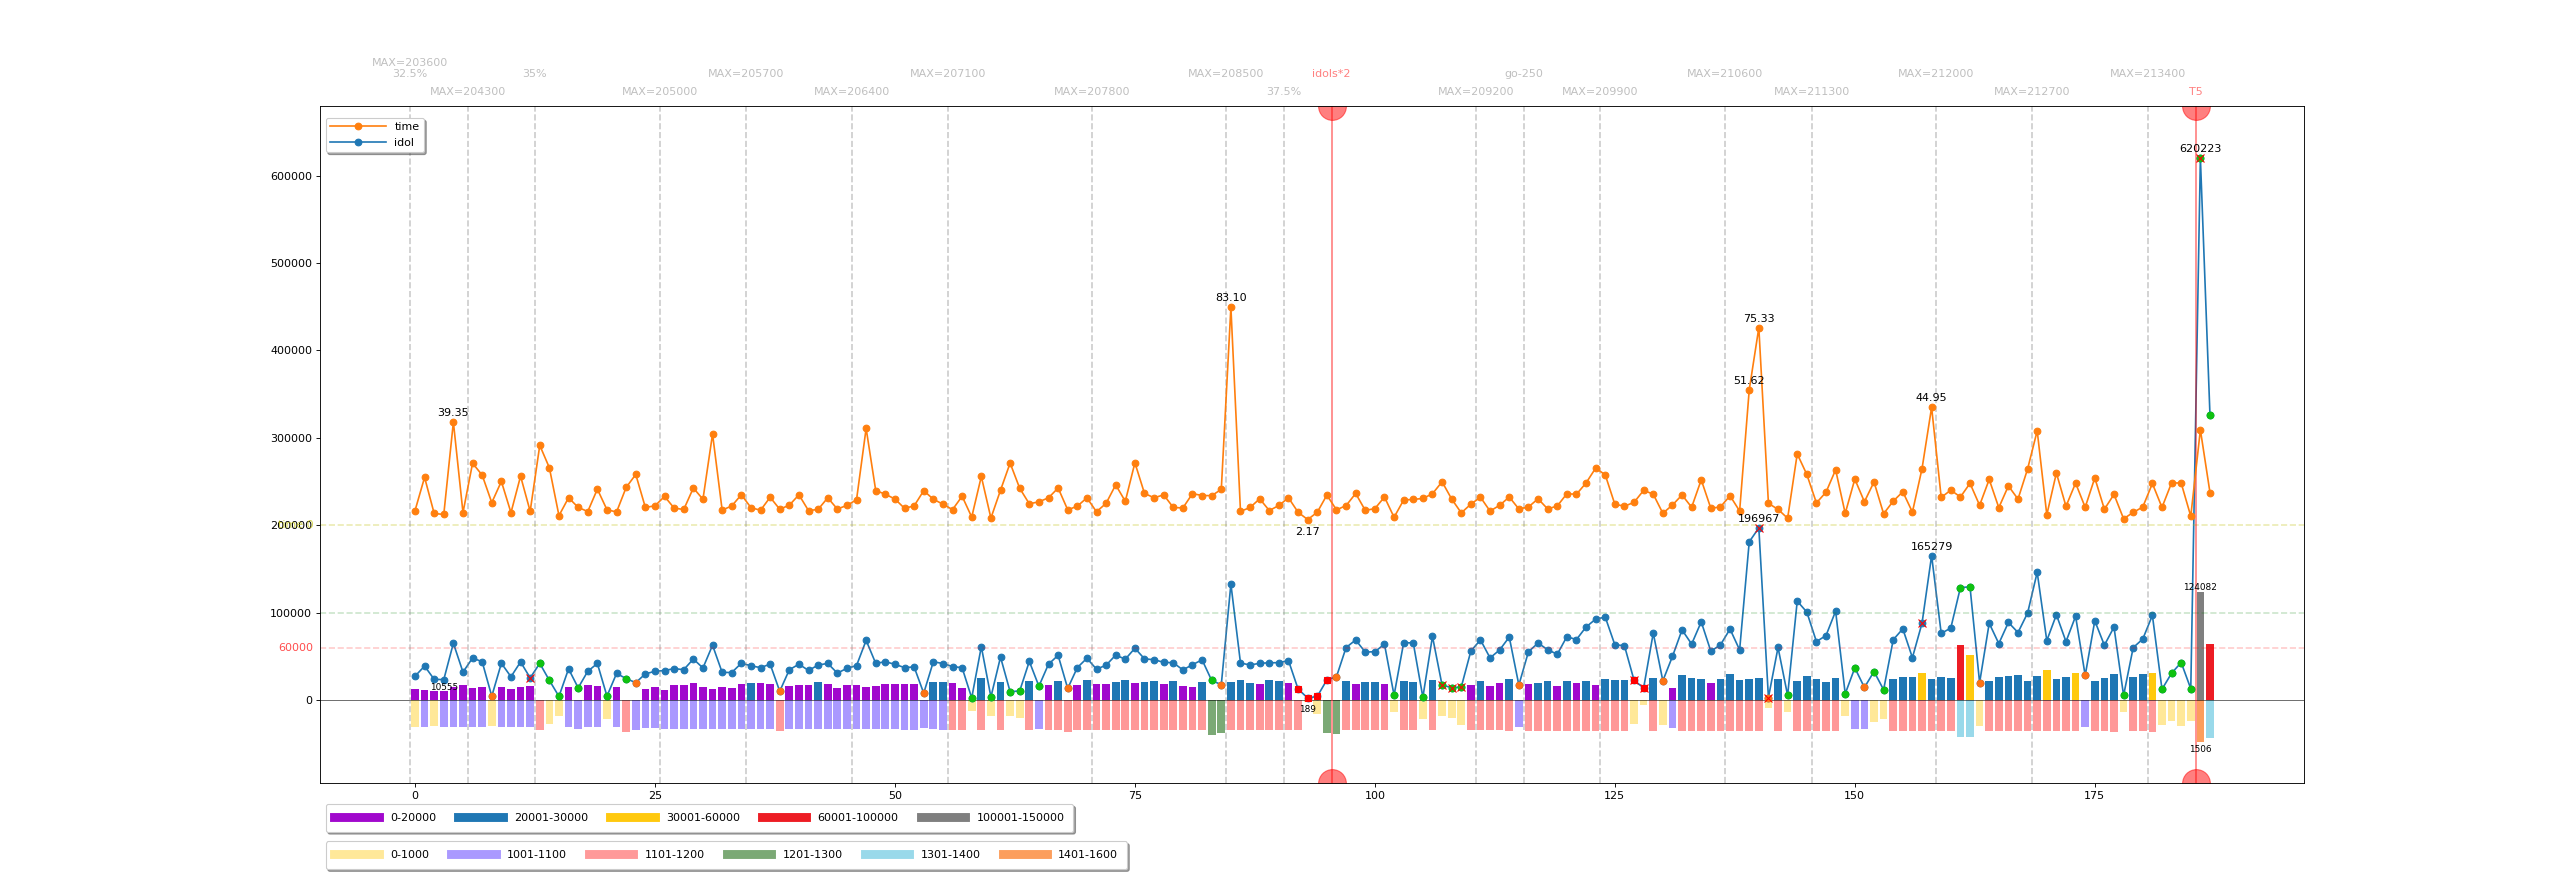
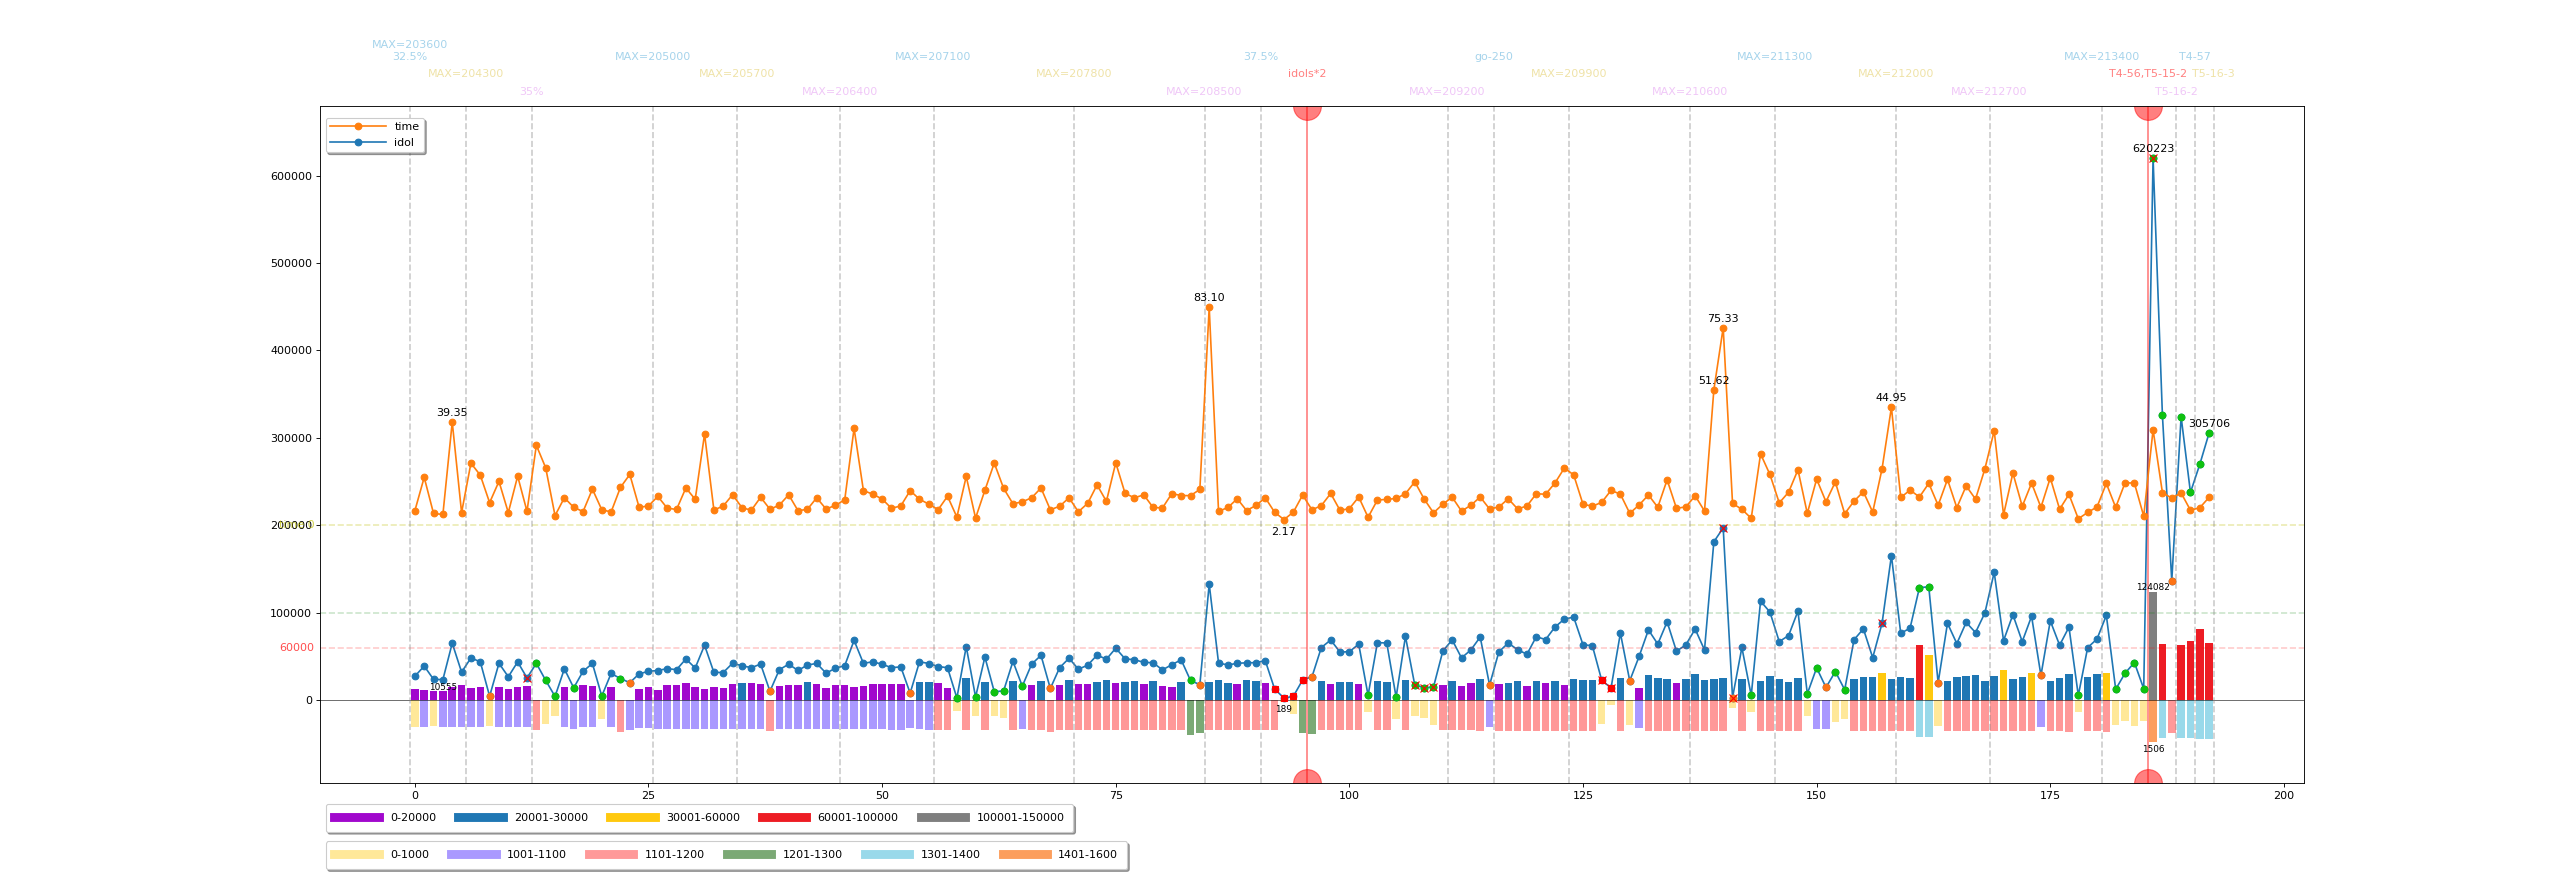
调整Y-mark层次, 颜色

diff --git a/plot.py b/plot.py
@@ -324,7 +324,8 @@ def plot():
 
     #---------------------------------------------------------
     # Y轴 make, buff name
-    bl = [710000, 690000]
+    bl = [730000, 710000, 690000]
+    cl = ['#4EA9D8', '#DFC650', '#E190F0']
     tt = 0
     # for k,v in make.iteritems():
     for i in make:
@@ -336,13 +337,13 @@ def plot():
         # idols*2
         if re.search(r'\*2', s):
             plt.axvline(float(i[0]), ls="-", c="r", marker='o', markersize = 25, alpha=0.5)
-            plt.text(float(i[0]), bl[tt%2], s, fontsize=10, color='r', ha='center', va='bottom', alpha=0.5)
-        elif re.search(r'T5', s):
+            plt.text(float(i[0]), bl[tt%3], s, fontsize=10, color='r', ha='center', va='bottom', alpha=0.5)
+        elif re.search(r'T4.*T5', s):
             plt.axvline(float(i[0]), ls="-", c="r", marker='o', markersize = 25, alpha=0.5)
-            plt.text(float(i[0]), bl[tt%2], s, fontsize=10, color='r', ha='center', va='bottom', alpha=0.5)
+            plt.text(float(i[0]), bl[tt%3], s, fontsize=10, color='r', ha='center', va='bottom', alpha=0.5)
         else:
             plt.axvline(float(i[0]), ls="--", c="gray", alpha=0.4)
-            plt.text(float(i[0]), bl[tt%2], s, fontsize=10, color='gray', ha='center', va='bottom', alpha=0.5)
+            plt.text(float(i[0]), bl[tt%3], s, fontsize=10, color=cl[tt%3], ha='center', va='bottom', alpha=0.5)
 
         tt += 1
 
